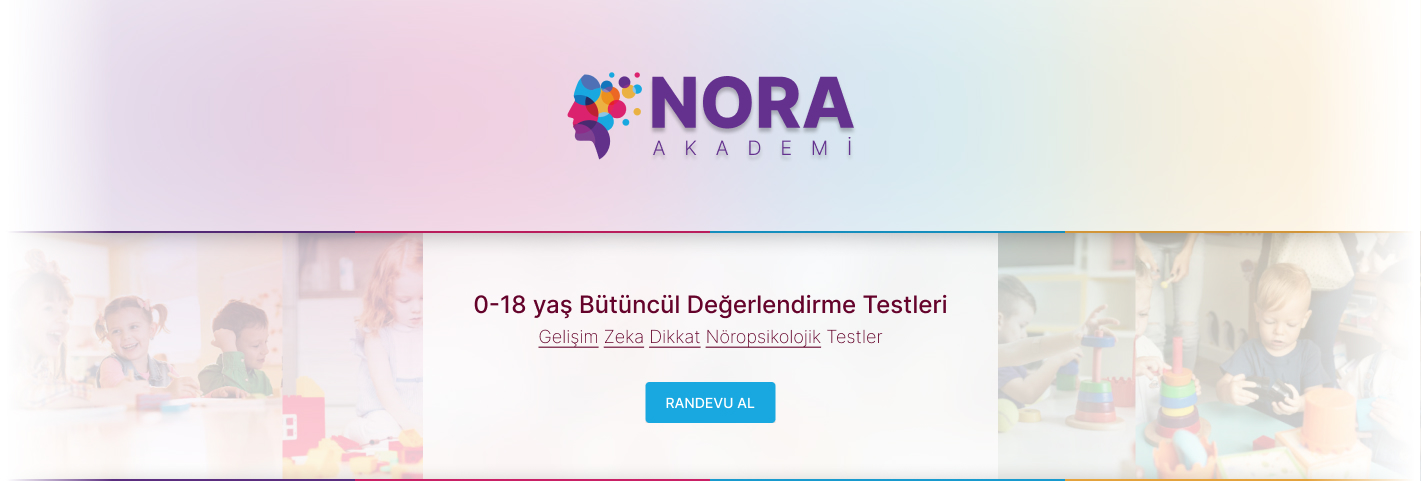
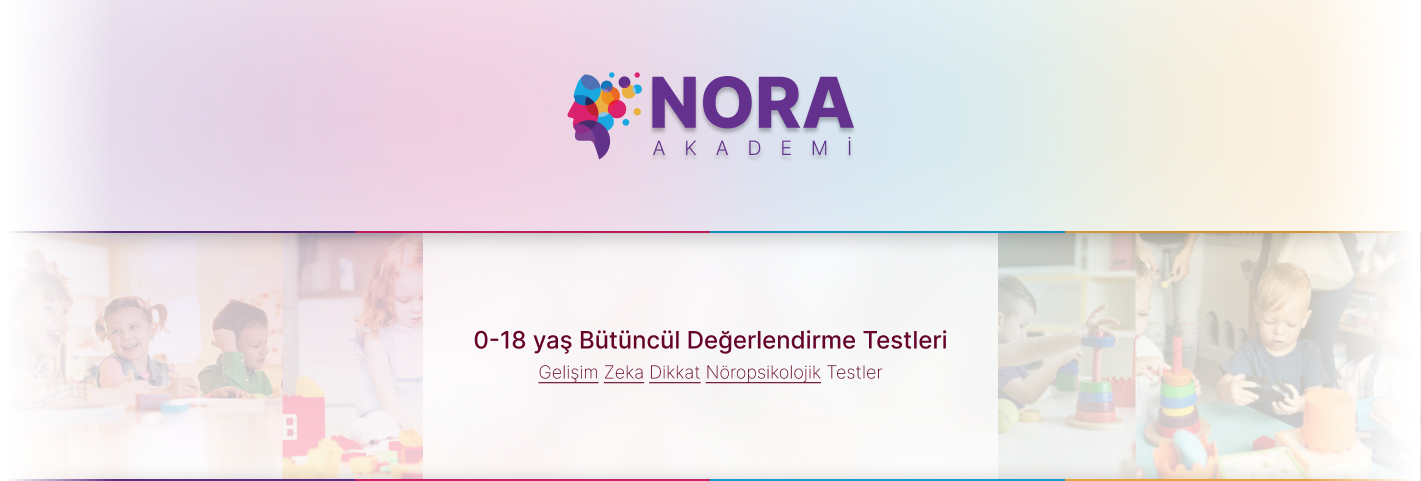
iletişim bilgileri eklendi

Changed region(s): [[0.3406, 0.6861, 0.6812, 0.9044], [0.3406, 0.5925, 0.6812, 0.6549]]

diff --git a/docs/index.html b/docs/index.html
@@ -3,29 +3,78 @@
 <head>
   <meta charset="UTF-8">
   <meta http-equiv="X-UA-Compatible" content="IE=edge">
-  <meta name="viewport" content="width=device-width, initial-scale=1.0">
+  <meta charset="utf-8">
+  <meta name="viewport" content="width=device-width, initial-scale=1">  
   <title>Nora Akademi</title>
+
+  <link rel="preconnect" href="https://fonts.googleapis.com">
+  <link rel="preconnect" href="https://fonts.gstatic.com" crossorigin>
+  <link href="https://fonts.googleapis.com/css2?family=Roboto:wght@100;400&display=swap" rel="stylesheet">  
 
   <style>
     *{margin: 0; padding: 0; box-sizing: border-box;}
-    html, body{ min-height: 100vh; }
+    html, body{ min-height: 100vh;  overflow-x: hidden; }
     body{
       display: flex;
       flex-direction: column;
       align-items: center;
-      /* justify-content: center; */
+
+      font-family: 'Roboto', sans-serif;
+      font-weight: 100;
+      line-height: 24px;
     }
-    #header{
-      /*width: 100%;*/
+
+    h2{
+      font-weight: 400;
+    }
+    
+    #iletisim{
+      text-align: center;
+      padding: 24px;
+    }
+
+
+    @media only screen and (max-width: 575px) {
+      #header{
+        zoom: 0.6;
+      }
     }
     
   </style>
 </head>
 <body>
 
-  <a href = "mailto:info@noraakademi.com">
-    <img id="header" src="./header.jpg"/>
-  </a>
+
+  <div style="margin: 24px; text-align: center;">
+    web sitemiz yenileniyor<br/>
+    çok yakında hizmetinizdeyiz
+  </div>
+
+  <!-- <a href = "mailto:info@noraakademi.com">
+  </a> -->
+    <img id="header" src="./header.jpg">
+
+
+    <h1 style="display: none;">Nora Akademi</h1>
+
+    <div id="iletisim">
+
+      <h3 style="margin: 24px 24px 6px;">Telefon</h3>
+      <div>
+        0537 221 69 82<br/>
+        0554 130 16 05
+      </div>
+      
+      <h3 style="margin: 24px 24px 6px;">E-Eail</h3>
+      <div>
+        info@noraakademi.com<br/>
+        noraakademi@gmail.com
+      </div>
+      
+      <h3 style="margin: 24px 24px 6px;">Adres</h3>
+      <div>Nazım Hikmet Bulv. Barbaros Hayrettin Paşa Mh. No:84 D:165 Newista Residance, Beylikdüzü, İstanbul</div>
+
+    </div>
 
   
   
